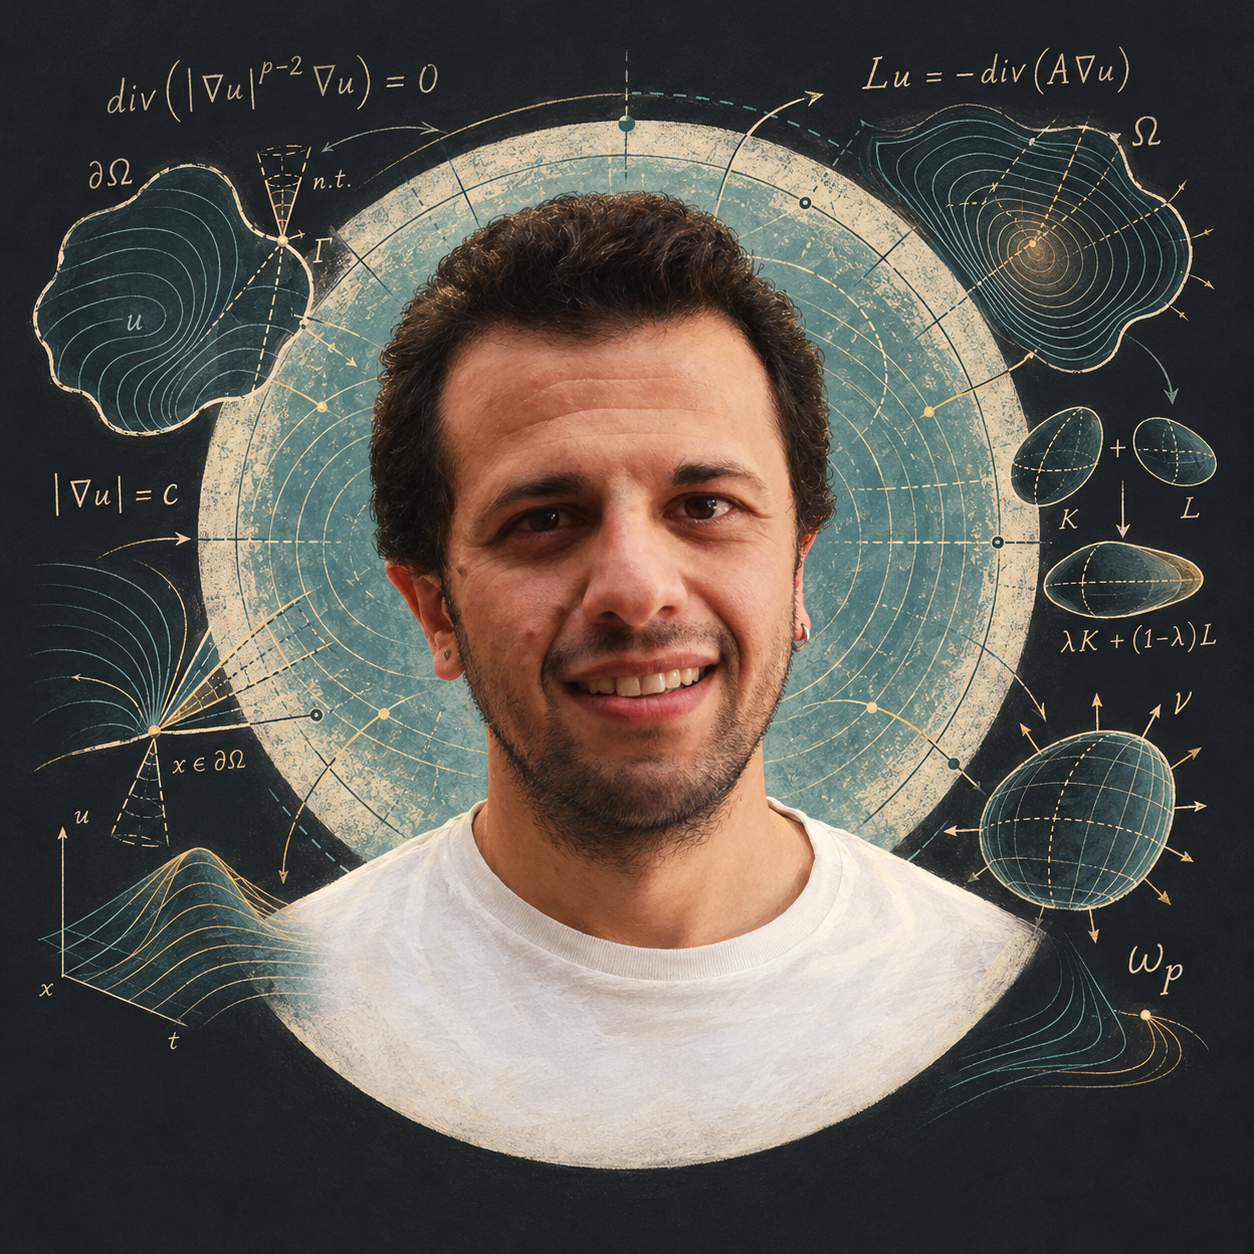
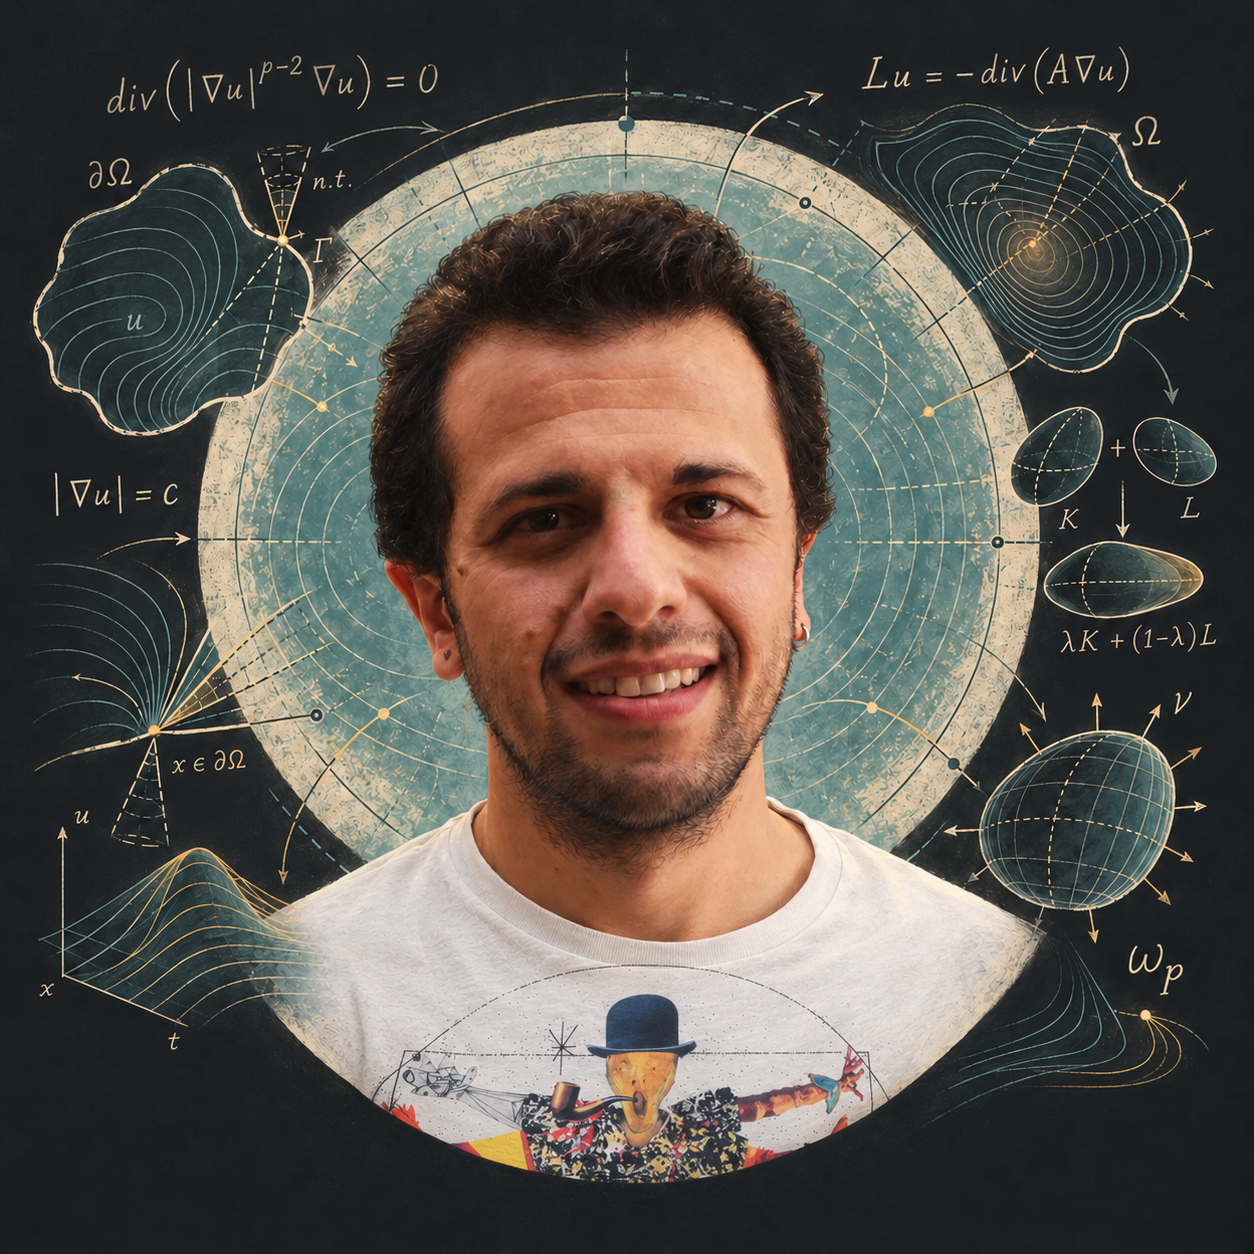
Restore shirt design in homepage portrait

diff --git a/index.html b/index.html
@@ -7,13 +7,13 @@
   <meta name="description" content="Murat Akman, mathematician at the University of Essex. Research in nonlinear PDEs, harmonic analysis, potential theory and geometric measure theory.">
   <meta property="og:title" content="Murat Akman · Mathematics">
   <meta property="og:description" content="Exploring the meeting point of analysis, geometry and partial differential equations.">
-  <meta property="og:image" content="https://makmanx.github.io/assets/murat-akman-portrait.png">
+  <meta property="og:image" content="https://makmanx.github.io/assets/murat-akman-portrait.png?v=ff1da0b955f9">
   <title>Murat Akman · Mathematics</title>
   <link rel="icon" href="assets/favicon.svg" type="image/svg+xml">
   <link rel="stylesheet" href="assets/style.css">
   <link rel="stylesheet" href="assets/portrait-landing.css">
   <link rel="stylesheet" href="assets/events.css">
-  <link rel="preload" as="image" href="assets/murat-akman-portrait.webp">
+  <link rel="preload" as="image" href="assets/murat-akman-portrait.webp?v=ff1da0b955f9">
   <script src="assets/publications.js" defer></script>
   <script src="assets/app.js" defer></script>
 </head>
@@ -34,7 +34,7 @@
       <h1 id="hero-title" class="sr-only">Murat Akman — Mathematics</h1>
       <p class="eyebrow light portrait-kicker">Analysis · Geometry · Partial differential equations</p>
       <div class="portrait-stage">
-        <figure class="portrait-art"><img src="assets/murat-akman-portrait.webp" width="1254" height="1254" alt="Murat Akman, surrounded by mathematical equations, level curves, convex bodies and boundary diagrams." fetchpriority="high"></figure>
+        <figure class="portrait-art"><img src="assets/murat-akman-portrait.webp?v=ff1da0b955f9" width="1254" height="1254" alt="Murat Akman, surrounded by mathematical equations, level curves, convex bodies and boundary diagrams." fetchpriority="high"></figure>
         <nav class="portrait-navigation" aria-label="Explore my work">
           <a class="portrait-link portrait-link--research" href="#research"><span>Research</span><span class="portrait-arrow" aria-hidden="true">↗</span></a>
           <a class="portrait-link portrait-link--publications" href="#publications"><span>Publications</span><span class="portrait-arrow" aria-hidden="true">↗</span></a>
